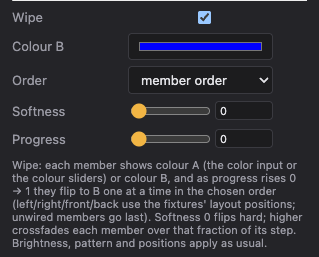
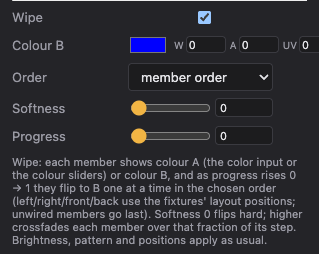
Colour W/A/UV boxes keep their width; retake screenshots

diff --git a/web/src/index.css b/web/src/index.css
@@ -347,7 +347,7 @@ header .toggle { display: flex; align-items: center; gap: 4px; font-size: 12px; 
 .color-field { display: flex; gap: 6px; align-items: center; min-width: 0; }
 .color-field input[type=color] { flex: 0 0 40px; padding: 0; height: 24px; border: none; background: none; }
 .color-extras { display: flex; gap: 4px; align-items: center; min-width: 0; }
-.color-extras label { display: flex; align-items: center; gap: 2px; font-size: 10px; color: var(--muted); }
-.color-extras label input { width: 40px; min-width: 0; padding: 1px 2px; font-size: 11px; }
+.color-extras label { flex: none; display: flex; align-items: center; gap: 2px; font-size: 10px; color: var(--muted); }
+.color-extras label input { flex: 0 0 40px; width: 40px; min-width: 40px; padding: 1px 2px; font-size: 11px; }
 .color-steps .color-extras { flex-direction: column; align-items: flex-end; }
 .look > .color-extras { margin-top: 6px; }
